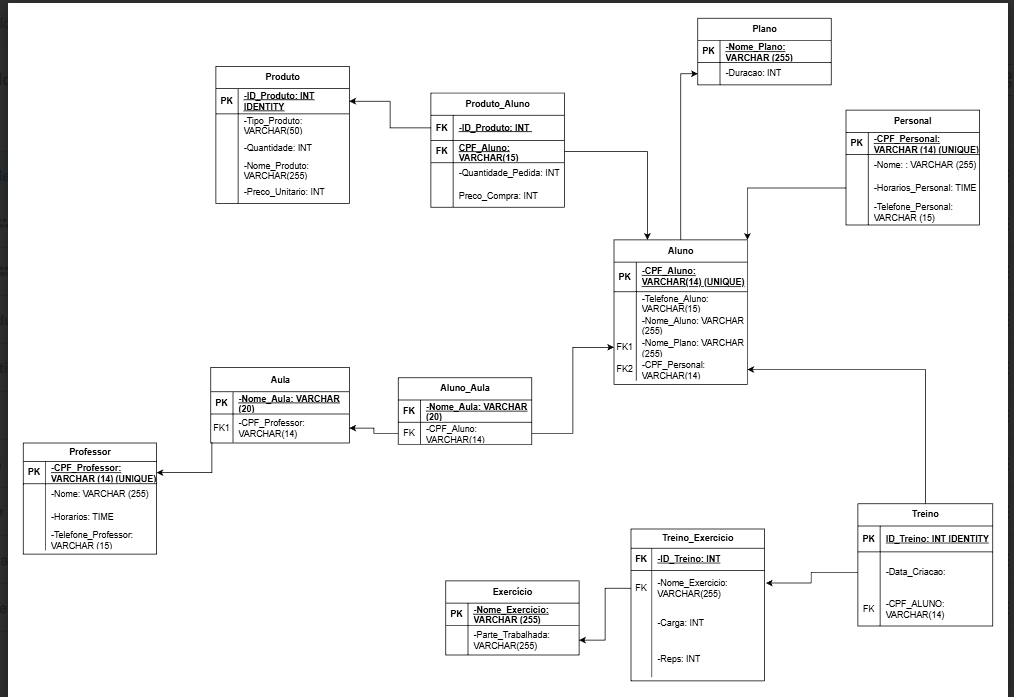
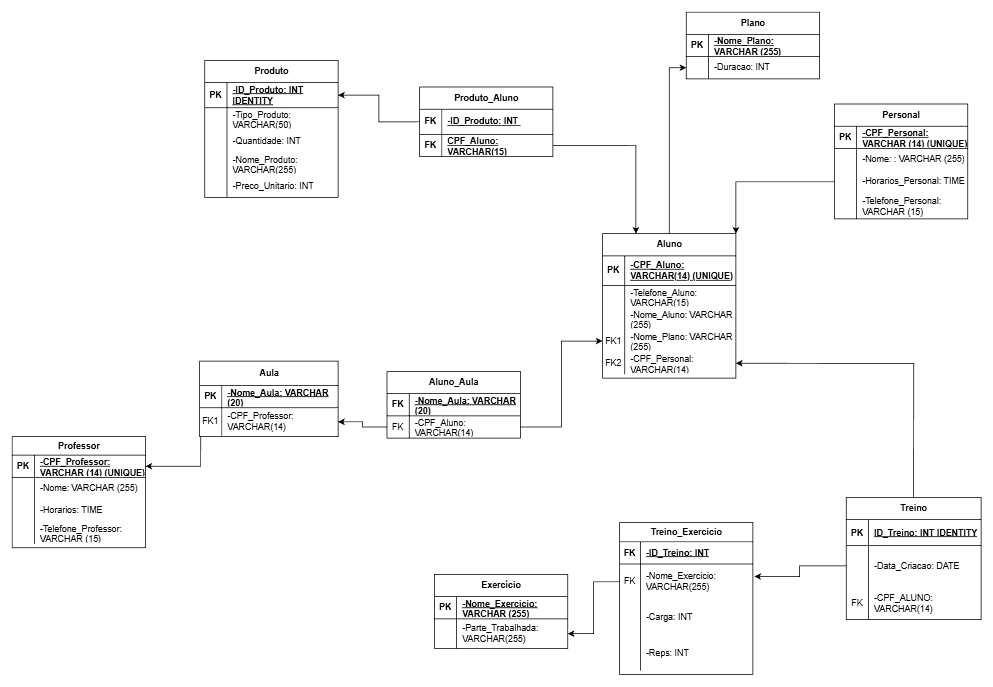
Feat: Criação do script de inserção de dados gerados na tabela usando Faker
docs: Atualização do README

refactor: Mudança na estrutura das tabelas relacionamento (N:N)

diff --git a/faker/generate_data.py b/faker/generate_data.py
@@ -1,0 +1,300 @@
+import pyodbc
+from faker import Faker
+from faker_br import *
+import random
+from datetime import date
+
+fake = Faker('pt_BR')
+
+# ============================================
+# Conexão com o banco
+# ============================================
+conn = pyodbc.connect(
+    'DRIVER={ODBC Driver 17 for SQL Server};'
+    'SERVER=localhost,1433;'
+    'DATABASE=gym_db;'
+    'UID=sa;'
+    'PWD=SuaSenhaForte123!'
+)
+cursor = conn.cursor()
+
+# ============================================
+# Plano
+# ============================================
+planos = [
+    ('Basic',    30),
+    ('Standard', 90),
+    ('Premium',  180),
+    ('Anual',    365),
+]
+
+for nome, duracao in planos:
+    cursor.execute("""
+        IF NOT EXISTS (SELECT 1 FROM Plano WHERE Nome_Plano = ?)
+        INSERT INTO Plano (Nome_Plano, Duracao) VALUES (?, ?)
+    """, nome, nome, duracao)
+
+conn.commit()
+print(f"✅ Plano: {len(planos)} registros inseridos")
+
+# ============================================
+# Personal
+# ============================================
+personals = []
+
+for _ in range(10):
+    cpf = fake.cpf()
+    nome = fake.name()
+    horario = f"{random.randint(6,20):02d}:{random.choice(['00','30'])}:00"
+    telefone = fake.phone_number()[:15]
+
+    try:
+        cursor.execute("""
+            INSERT INTO Personal (CPF_Personal, Nome, Horarios_Personal, Telefone_Personal)
+            VALUES (?, ?, ?, ?)
+        """, cpf, nome, horario, telefone)
+        personals.append(cpf)
+    except:
+        pass
+
+conn.commit()
+print(f"✅ Personal: {len(personals)} registros inseridos")
+
+# ============================================
+# Professor
+# ============================================
+professores = []
+
+for _ in range(5):
+    cpf = fake.cpf()
+    nome = fake.name()
+    horario = f"{random.randint(6,20):02d}:{random.choice(['00','30'])}:00"
+    telefone = fake.phone_number()[:15]
+
+    try:
+        cursor.execute("""
+            INSERT INTO Professor (CPF_Professor, Nome, Horarios_Professor, Telefone_Professor)
+            VALUES (?, ?, ?, ?)
+        """, cpf, nome, horario, telefone)
+        professores.append(cpf)
+    except:
+        pass
+
+conn.commit()
+print(f"✅ Professor: {len(professores)} registros inseridos")
+
+# ============================================
+# Aluno
+# ============================================
+alunos = []
+nomes_plano = [p[0] for p in planos]
+
+for _ in range(50):
+    cpf = fake.cpf()
+    nome = fake.name()
+    telefone = fake.phone_number()[:15]
+    nome_plano = random.choice(nomes_plano)
+    cpf_personal = random.choice(personals)
+
+    try:
+        cursor.execute("""
+            INSERT INTO Aluno (CPF_Aluno, Nome_Aluno, Telefone_Aluno, Nome_Plano, CPF_Personal)
+            VALUES (?, ?, ?, ?, ?)
+        """, cpf, nome, telefone, nome_plano, cpf_personal)
+        alunos.append(cpf)
+    except:
+        pass
+
+conn.commit()
+print(f"✅ Aluno: {len(alunos)} registros inseridos")
+
+# ============================================
+# Aula
+# ============================================
+aulas_disponiveis = [
+    'Musculacao',
+    'Yoga',
+    'Spinning',
+    'Pilates',
+    'Funcional',
+]
+
+aulas = []
+for nome_aula in aulas_disponiveis:
+    cpf_professor = random.choice(professores)
+    try:
+        cursor.execute("""
+            IF NOT EXISTS (SELECT 1 FROM Aula WHERE Nome_Aula = ?)
+            INSERT INTO Aula (Nome_Aula, CPF_Professor) VALUES (?, ?)
+        """, nome_aula, nome_aula, cpf_professor)
+        aulas.append(nome_aula)
+    except:
+        pass
+
+conn.commit()
+print(f"✅ Aula: {len(aulas)} registros inseridos")
+
+# ============================================
+# Aluno_Aula (N:N)
+# ============================================
+aluno_aula_inseridos = 0
+pares_aluno_aula = set()
+
+for aluno in alunos:
+    aulas_aluno = random.sample(aulas, k=random.randint(1, 3))
+    for aula in aulas_aluno:
+        par = (aula, aluno)
+        if par not in pares_aluno_aula:
+            try:
+                cursor.execute("""
+                    INSERT INTO Aluno_Aula (Nome_Aula, CPF_Aluno) VALUES (?, ?)
+                """, aula, aluno)
+                pares_aluno_aula.add(par)
+                aluno_aula_inseridos += 1
+            except:
+                pass
+
+conn.commit()
+print(f"✅ Aluno_Aula: {aluno_aula_inseridos} registros inseridos")
+
+# ============================================
+# Produto
+# ============================================
+produtos_disponiveis = [
+    ('Suplemento',  'Whey Protein',     89.90),
+    ('Suplemento',  'Creatina',         59.90),
+    ('Suplemento',  'Pre-Treino',       79.90),
+    ('Acessorio',   'Luva de Treino',   49.90),
+    ('Acessorio',   'Cinto Lombar',     99.90),
+    ('Roupa',       'Camiseta Dry Fit', 39.90),
+    ('Roupa',       'Shorts Treino',    49.90),
+    ('Bebida',      'Agua Mineral',      3.50),
+    ('Bebida',      'Isotonico',         8.90),
+    ('Equipamento', 'Corda de Pular',   29.90),
+]
+
+ids_produto = []
+for tipo, nome, preco in produtos_disponiveis:
+    quantidade = random.randint(10, 100)
+    try:
+        cursor.execute("""
+            INSERT INTO Produto (Tipo_Produto, Quantidade, Nome_Produto, Preco_Unitario)
+            VALUES (?, ?, ?, ?)
+        """, tipo, quantidade, nome, preco)
+        ids_produto.append(cursor.execute("SELECT @@IDENTITY").fetchval())
+    except:
+        pass
+
+# Busca IDs reais inseridos
+cursor.execute("SELECT ID_Produto FROM Produto")
+ids_produto = [row[0] for row in cursor.fetchall()]
+
+conn.commit()
+print(f"✅ Produto: {len(ids_produto)} registros inseridos")
+
+# ============================================
+# Produto_Aluno (N:N)
+# ============================================
+produto_aluno_inseridos = 0
+pares_produto_aluno = set()
+
+for aluno in random.sample(alunos, k=min(30, len(alunos))):
+    produtos_aluno = random.sample(ids_produto, k=random.randint(1, 3))
+    for id_produto in produtos_aluno:
+        par = (id_produto, aluno)
+        if par not in pares_produto_aluno:
+            try:
+                cursor.execute("""
+                    INSERT INTO Produto_Aluno (ID_Produto, CPF_Aluno) VALUES (?, ?)
+                """, id_produto, aluno)
+                pares_produto_aluno.add(par)
+                produto_aluno_inseridos += 1
+            except:
+                pass
+
+conn.commit()
+print(f"✅ Produto_Aluno: {produto_aluno_inseridos} registros inseridos")
+
+# ============================================
+# Exercicio
+# ============================================
+exercicios_disponiveis = [
+    ('Supino Reto',         'Peito'),
+    ('Supino Inclinado',    'Peito'),
+    ('Agachamento',         'Pernas'),
+    ('Leg Press',           'Pernas'),
+    ('Remada Curvada',      'Costas'),
+    ('Puxada Frontal',      'Costas'),
+    ('Desenvolvimento',     'Ombros'),
+    ('Elevacao Lateral',    'Ombros'),
+    ('Rosca Direta',        'Biceps'),
+    ('Triceps Pulley',      'Triceps'),
+    ('Panturrilha',         'Pernas'),
+    ('Abdominal',           'Core'),
+]
+
+for nome, parte in exercicios_disponiveis:
+    try:
+        cursor.execute("""
+            IF NOT EXISTS (SELECT 1 FROM Exercicio WHERE Nome_Exercicio = ?)
+            INSERT INTO Exercicio (Nome_Exercicio, Parte_Trabalhada) VALUES (?, ?)
+        """, nome, nome, parte)
+    except:
+        pass
+
+conn.commit()
+print(f"✅ Exercicio: {len(exercicios_disponiveis)} registros inseridos")
+
+# ============================================
+# Treino
+# ============================================
+treinos = []
+
+for aluno in alunos:
+    num_treinos = random.randint(1, 5)
+    for _ in range(num_treinos):
+        data = fake.date_between(start_date=date(2024, 1, 1), end_date=date.today())
+        try:
+            cursor.execute("""
+                INSERT INTO Treino (Data_Criacao, CPF_Aluno) VALUES (?, ?)
+            """, data, aluno)
+            treinos.append(cursor.execute("SELECT @@IDENTITY").fetchval())
+        except:
+            pass
+
+# Busca IDs reais inseridos
+cursor.execute("SELECT ID_Treino FROM Treino")
+treinos = [row[0] for row in cursor.fetchall()]
+
+conn.commit()
+print(f"✅ Treino: {len(treinos)} registros inseridos")
+
+# ============================================
+# Treino_Exercicio (N:N)
+# ============================================
+nomes_exercicio = [e[0] for e in exercicios_disponiveis]
+treino_exercicio_inseridos = 0
+
+for id_treino in treinos:
+    exercicios_treino = random.sample(nomes_exercicio, k=random.randint(3, 6))
+    for exercicio in exercicios_treino:
+        carga = random.randint(10, 120)
+        reps = random.randint(6, 15)
+        try:
+            cursor.execute("""
+                INSERT INTO Treino_Exercicio (ID_Treino, Nome_Exercicio, Carga, Reps)
+                VALUES (?, ?, ?, ?)
+            """, id_treino, exercicio, carga, reps)
+            treino_exercicio_inseridos += 1
+        except:
+            pass
+
+conn.commit()
+print(f"✅ Treino_Exercicio: {treino_exercicio_inseridos} registros inseridos")
+
+# ============================================
+# Encerra conexão
+# ============================================
+cursor.close()
+conn.close()
+print("\n🏋 Dados inseridos com sucesso no gym_db!")
